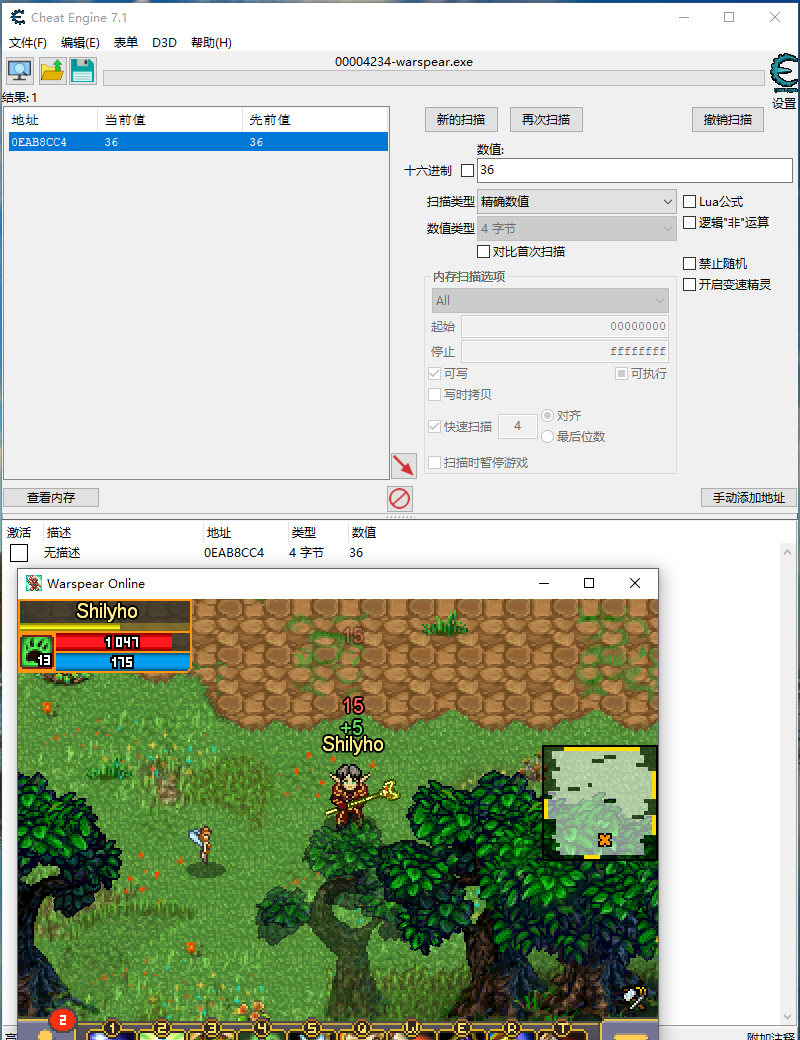
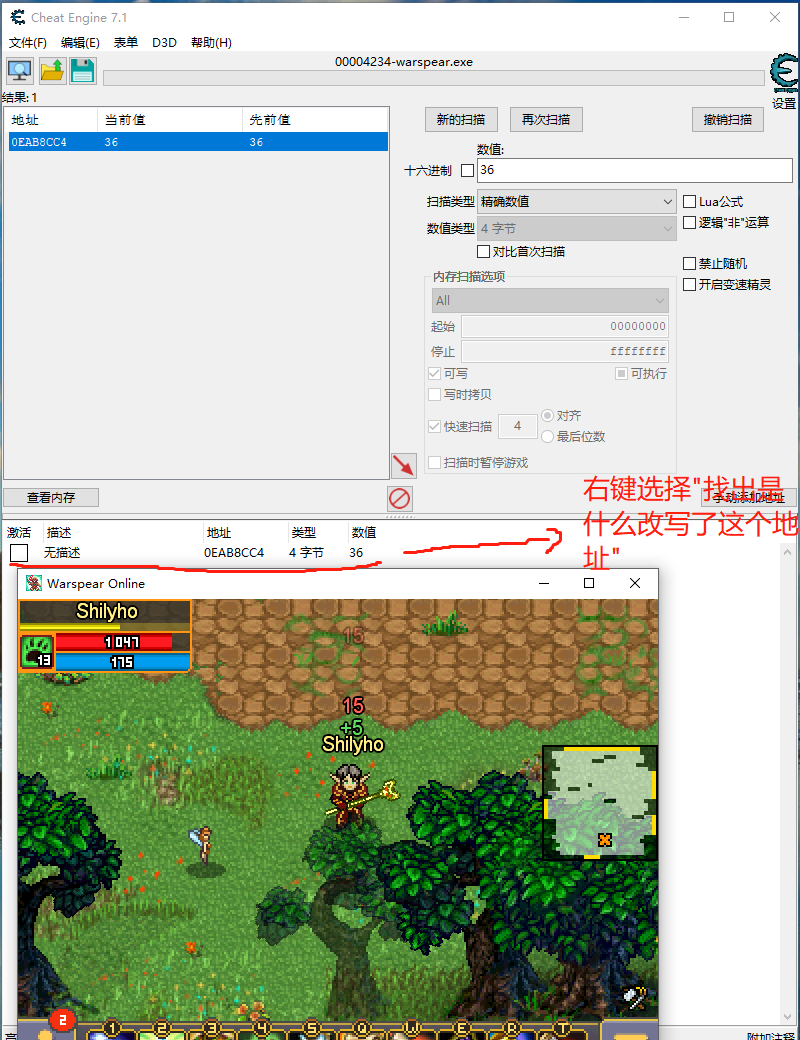
up

diff --git a/tutorial/1.get_monster_info.md b/tutorial/1.get_monster_info.md
@@ -11,3 +11,154 @@ ce查内存神器,还能调试
 查看反汇编静态代码用的
 
 ## 0x02:找到修改血量代码位置
+
+首先找到怪物的血量地址,如下图.
+
+![find_hp](https://raw.githubusercontent.com/shanlihou/hack_warspear/master/img/find_hp.png)  
+如上图所示,按照上图位置右键"找出是什么改写了这个位置",并点击附加到进程.  
+在附加到进程后攻击这个怪物.这时候会看到下图
+![opr_addr](https://raw.githubusercontent.com/shanlihou/hack_warspear/master/img/find_hp.png)  
+图中地址00570FFB就是修改怪物血量的代码位置
+
+## 0x03:找到调用堆栈
+
+还记得我们上次讲怎么用ce+lua吗.  
+我们编写如下脚本  
+代码位置:$(ROOT)/info/find_hp_base.lua
+
+```lua
+function print_stack(ebp, deep) --打印堆栈的函数,返回值是堆栈调用过程
+    if deep == 0
+    then
+        return ""
+    end
+    local ebp_4 = readInteger(ebp + 4)
+    local str_ret = string.format("%x->", ebp_4)
+    local next_ebp = readInteger(ebp)
+    str_ret = str_ret .. print_stack(next_ebp, deep - 1)
+    return str_ret
+end
+
+function clear_debug() --清除所有已经添加的断点
+    local tbl = debug_getBreakpointList()
+    if tbl == nil
+    then
+        return
+    end
+    for i,v in ipairs(tbl) do
+        print(string.format("%4d 0x%X",i,v))
+        debug_removeBreakpoint(v)
+    end
+end
+
+function debugger_onBreakpoint() --默认断点函数
+    if EIP == 0x570FFB -- 这个位置是咱们刚刚获得的修改怪物血量的代码位置
+    then
+        local ret = print_stack(EBP, 10)
+        print(ret)
+    else
+        print("not found")
+    end
+    return 1
+end
+
+clear_debug()
+debug_setBreakpoint(0x570FFB)
+```
+
+好,我们现在拿着如上代码在ce上执行.执行完后,就可以操作玩家打怪了.  
+在玩家攻击后会看到如下图打印
+
+![attack_stack](https://raw.githubusercontent.com/shanlihou/hack_warspear/master/img/find_hp.png)
+
+上图中红框框出来的这个打印就是一次扣血的调用过程,我们就拿着这个找基址
+70e76a->70fa54->747e0e->87c579->86052b->75b247ab->75b02aac->75b044db->75b041e0->8602c6-> 
+
+## 0x04:找到基址
+
+现在用immunity debugger打开我们的游戏并定位到位置0x570FFB
+
+![find_base](https://raw.githubusercontent.com/shanlihou/hack_warspear/master/img/find_hp.png)
+
+我们从上图1位置(0x570FFB)可以看出血量应该是保存在esi+0xf4这个位置,那么我们现在就要找esi的值是怎么来的  
+我们网上看图2位置(0x570ff2)esi是从eax赋值的,那么就要找eax怎么来的.  
+在网上看图3位置有一个函数调用,一般汇编的函数如果有返回值的话是保存在eax的.所以我们要跟进去看是不是这个函数返回的.
+
+![btree](https://raw.githubusercontent.com/shanlihou/hack_warspear/master/img/find_hp.png)
+
+上图是进入函数0x715720后,的相关内容,我给大家翻译一下上面的内容,下面是翻译后的c++代码.
+
+```c++
+eax = *(ecx + 0x30);
+eax = *(eax);
+edx = *(ebp + 0x8);
+while (1):
+{	
+    ecx = *(eax + 0x10);// MOV ECX,DWORD PTR DS:[EAX+10]
+	if (ecx > edx){//CMP ECX,EDX;    JBE SHORT warspear.0071573C
+		eax = *(eax + 0x4);
+		continue;
+    }
+	else if (exc < edx){//JNB SHORT warspear.0071574B
+		eax = *(eax + 0x8);
+		continue;
+    }
+	else{
+		eax = *(eax + 0x14);
+		break;
+    }
+}
+```
+
+有一定c/c++语言功底的朋友不难看出,上面代码是一段对数据结构二叉树的查找过程.所以我们可以确定了,这款游戏的怪物信息是使用二叉树来存储的.  
+把上图的eax想象成一个节点.那么eax+0x10这个位置存储的就可能是类似id的值,然后跟edx这个目标值来比较.  
+如果当前id > edx 则从右节点继续找(eax + 0x04)
+如果当前id < edx 则从左节点继续找(eax + 0x08)
+如果相等就用eax = *(eax + 0x14)然后返回.
+
+所以从上图汇编代码我们得到三个信息:  
+1.a的确是返回值  
+2.怪物信息存在一个二叉树里  
+3.从第一行(MOV EAX,DWORD PTR DS:[ECX+38])看出,咱门下一个追踪目标就是这个ecx了
+
+我们继续顺着上面汇编图的4,5,6会发现我们已经找到了基址(哈哈,很尴尬,前面的查看堆栈貌似没啥用啊,没关系,下次讲一定会把它用上的.因为我之前完成的时候已经过去很久了,写这篇文章时候是边做边写的.所以没想到没用上)  
+
+## 0x05:测试基址是否正确
+
+我们编写如下lua代码  
+代码位置
+
+```lua
+function handleNode(value, ptr, hp)
+    print(string.format('%x,%x,%d', value, ptr, hp))
+end
+
+function read_tree(node, func)--读取二叉树结构体的代码
+    if (node == 0 or node == nil)
+    then
+        return
+    end
+
+    local left = readInteger(node + 4)
+    local right = readInteger(node + 8)
+    local value = readInteger(node + 0x10)
+    local ptr = readInteger(node + 0x14)
+    local hp = readInteger(ptr + 0xf4) --这里存的就是血量了.对应上面汇编代码中的(esi + f4)
+    read_tree(left, func)
+    read_tree(right, func)
+    func(value, ptr, hp)
+end
+
+local g_base = readInteger(0x9a45b0)
+local tmp_ptr = readInteger(g_base + 0x10)
+tmp_ptr = readInteger(tmp_ptr + 0x38)
+local root = readInteger(tmp_ptr)
+read_tree(root, handleNode)
+```
+
+把上面代码放在ce中执行就会看到打印如下
+
+![my_hp](https://raw.githubusercontent.com/shanlihou/hack_warspear/master/img/find_hp.png)
+
+上图中1已经把我自己的hp打印出来了.
+
